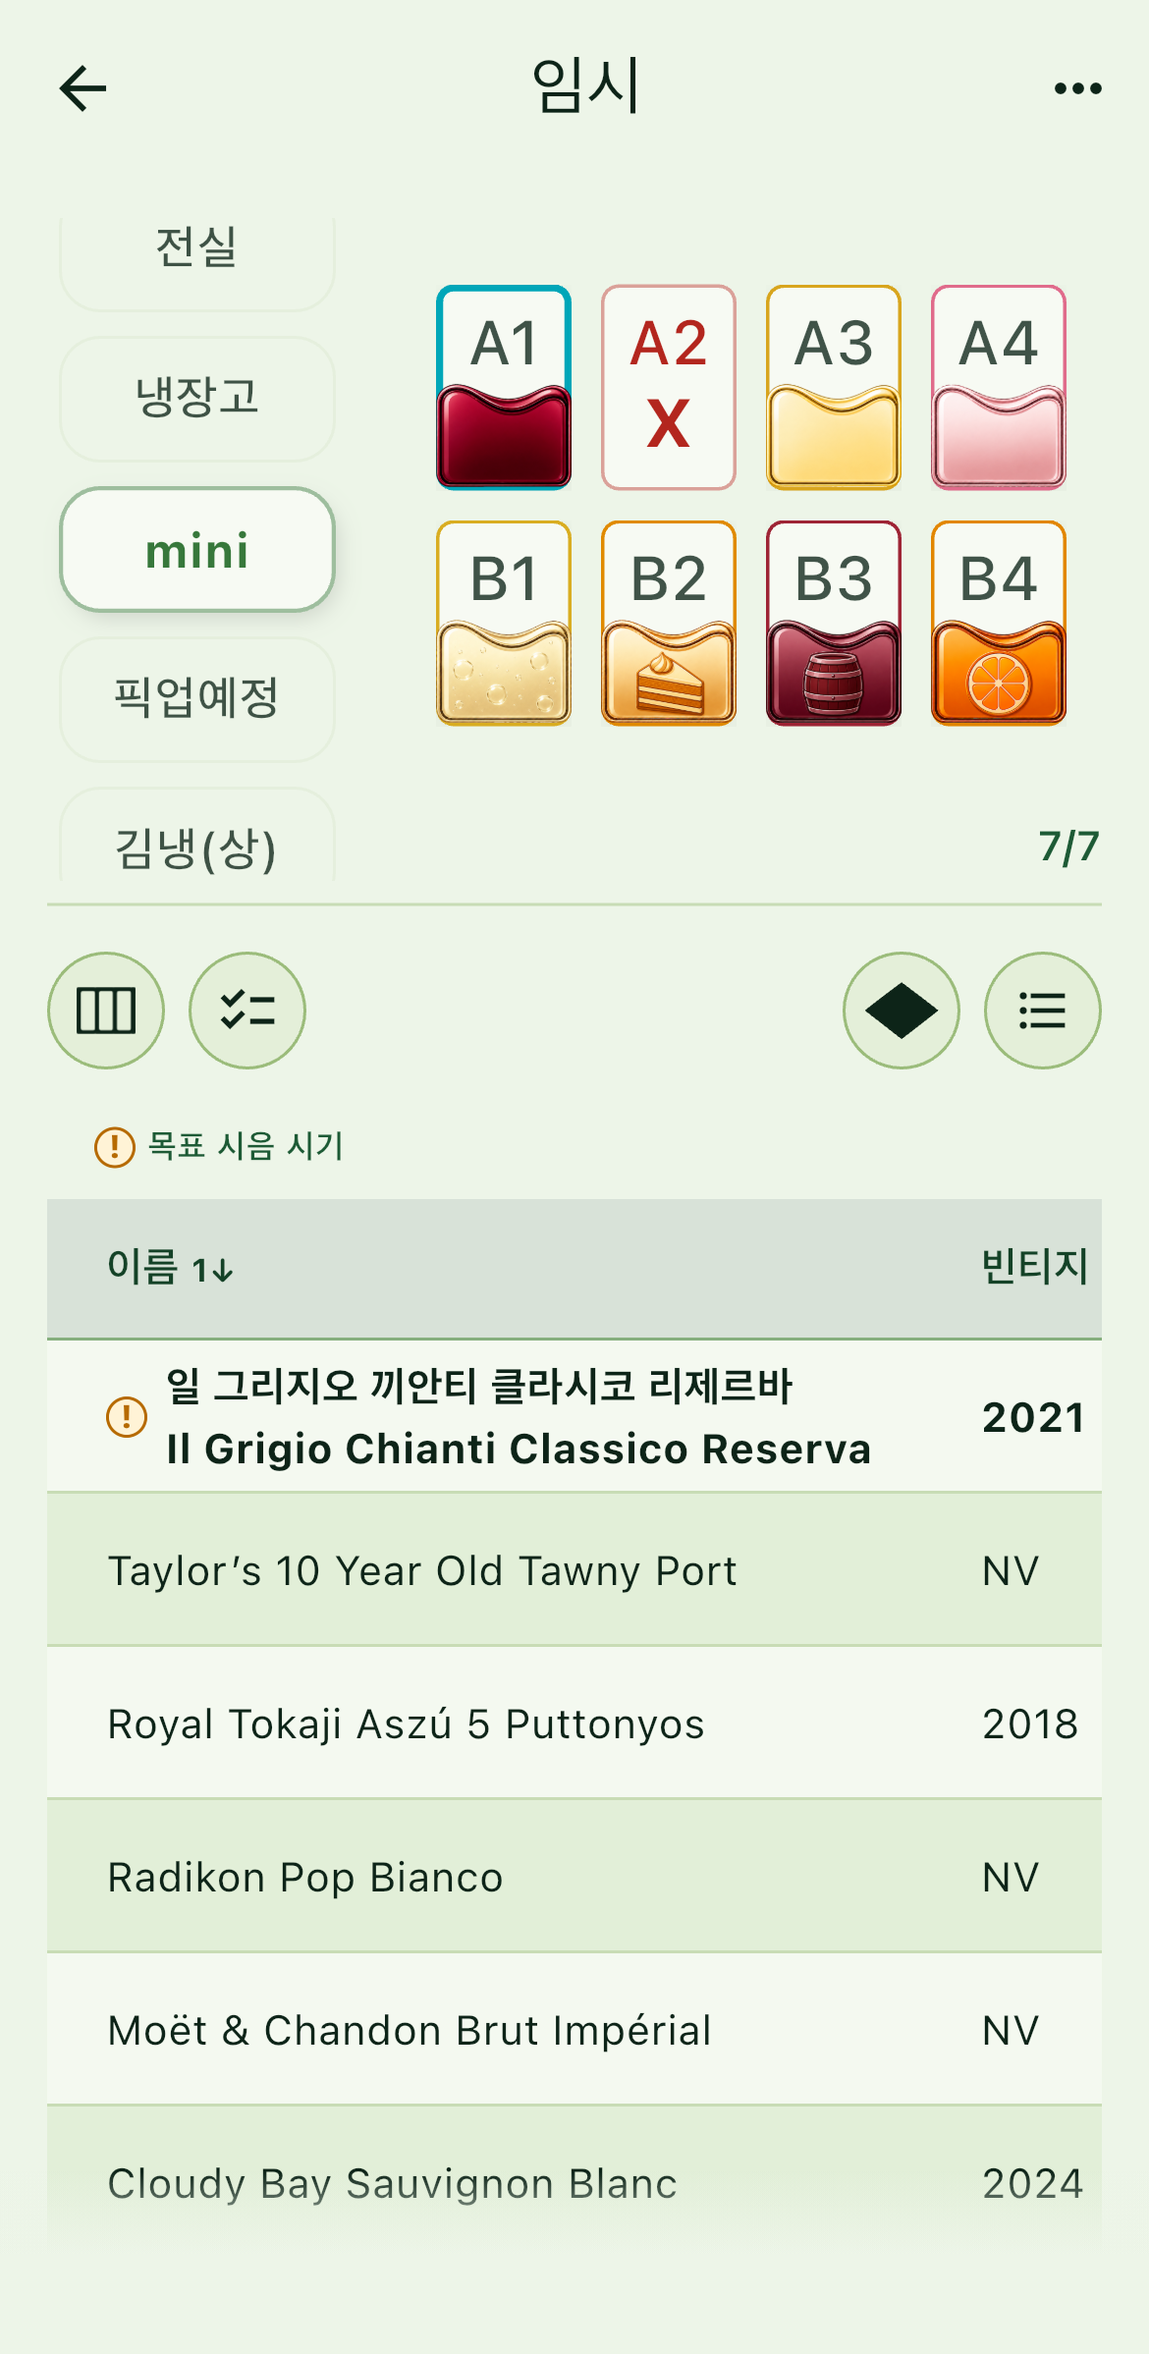
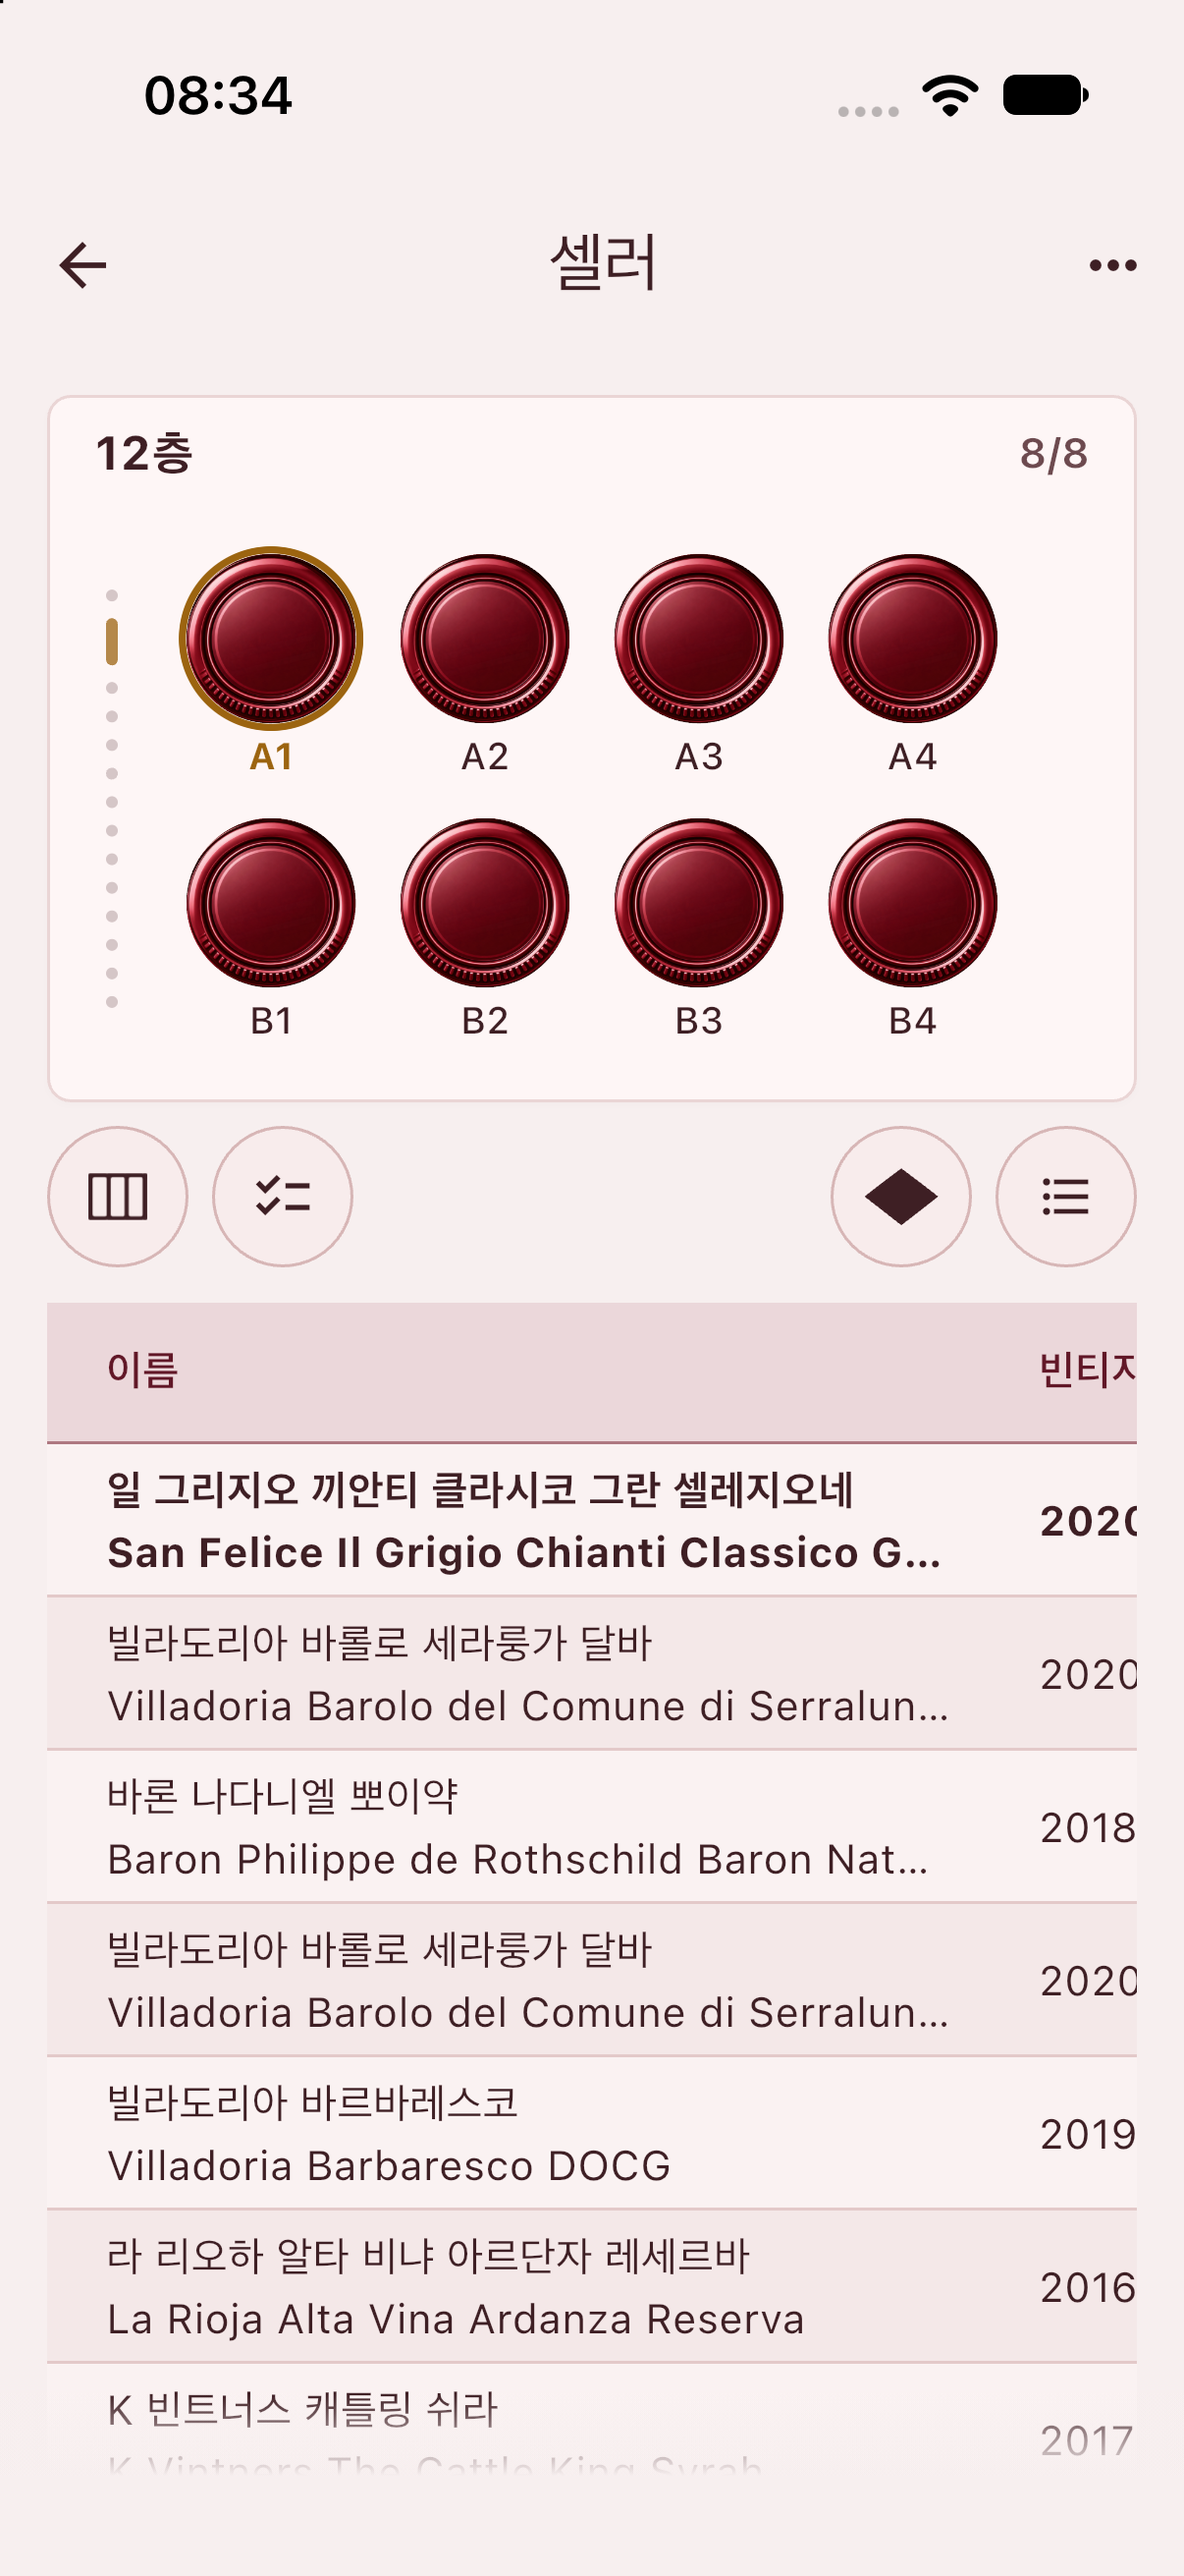
Update cellar layout captures to current UI

diff --git a/features.html b/features.html
@@ -95,7 +95,7 @@
             <p>어느 셀러에 어떤 와인이 있는지, 같은 와인이 몇 병 남았는지 한눈에 살펴보세요. 셀러의 층과 자리를 실제 보관 모습에 맞게 구성하고, 같은 와인도 한 병씩 구분해 관리할 수 있습니다. 셀러에 넣지 않은 와인은 위치 미지정으로 보관하시면 됩니다.</p>
             <div class="feature-media">
               <figure class="feature-shot"><a href="images/features/olwine-home-ko.png"><img src="images/features/olwine-home-ko.png" alt="셀러별 보관 현황" width="1206" height="2622" loading="lazy"></a><figcaption>셀러별 보관 현황</figcaption></figure>
-              <figure class="feature-shot"><a href="images/features/cellar-layout.png"><img src="images/features/cellar-layout.png" alt="층과 자리별 와인 배치" width="1170" height="2532" loading="lazy"></a><figcaption>층과 자리별 와인 배치</figcaption></figure>
+              <figure class="feature-shot"><a href="images/features/cellar-layout.png"><img src="images/features/cellar-layout.png" alt="층 표시와 A1~B4 자리 배치, 선택한 A1 와인이 강조된 목록" width="1206" height="2622" loading="lazy"></a><figcaption>층과 자리별 와인 배치</figcaption></figure>
             </div>
           </article>
           <article class="feature-item" id="tastings-ko">
@@ -192,7 +192,7 @@
             <p>See what is in each cellar and how many bottles remain. Arrange layers and positions to match your storage, and keep track of each bottle, even when you own several of the same wine. Bottles outside a cellar can stay unassigned.</p>
             <div class="feature-media">
               <figure class="feature-shot"><a href="images/features/olwine-home-ko.png"><img src="images/features/olwine-home-ko.png" alt="Collection overview (Korean UI)" width="1206" height="2622" loading="lazy"></a><figcaption>Collection overview (Korean UI)</figcaption></figure>
-              <figure class="feature-shot"><a href="images/features/cellar-layout_e.png"><img src="images/features/cellar-layout_e.png" alt="Wines by layer and position" width="1170" height="2532" loading="lazy"></a><figcaption>Wines by layer and position</figcaption></figure>
+              <figure class="feature-shot"><a href="images/features/cellar-layout_e.png"><img src="images/features/cellar-layout_e.png" alt="Level indicator, positions A1 through B4, and the selected A1 wine highlighted in the list" width="1206" height="2622" loading="lazy"></a><figcaption>Wines by layer and position</figcaption></figure>
             </div>
           </article>
           <article class="feature-item" id="tastings-en">

diff --git a/FEATURE_SCREENSHOT_BRIEF.md b/FEATURE_SCREENSHOT_BRIEF.md
@@ -21,7 +21,7 @@
 
 - iPhone 17 / iOS 27.0 Simulator의 실제 앱 화면을 사용했다.
 - 사용자가 공개 촬영을 위해 넣어둔 사진과 데이터를 그대로 사용했다. 사진 목록은 사진이 있는 기록이 대부분인 2026년 10월 첫 화면을 선택했다.
-- 새 캡처는 한국어 UI다. 영어 본문에서도 해당 이미지에는 Korean UI를 표기한다. 기존 화면의 영어 캡처는 유지한다.
+- 새 캡처는 한국어 UI다. 영어 본문에서도 해당 이미지에는 Korean UI를 표기한다. `cellar-layout.png`와 `cellar-layout_e.png`는 최신 층·자리 배치 화면을 한국어·영어로 각각 다시 촬영했다. 왼쪽 층 표시, 원형 와인 자리, A1 선택과 목록 강조가 함께 보이는 장면이다.
 - 새 화면은 원본 PNG를 사용하며, 화면 합성이나 실제 AI 결과의 임의 작성은 하지 않는다.
 - AI 요청을 실행하거나 서버 정책·지급량·요금제·앱 권한을 변경하지 않았다.
 
